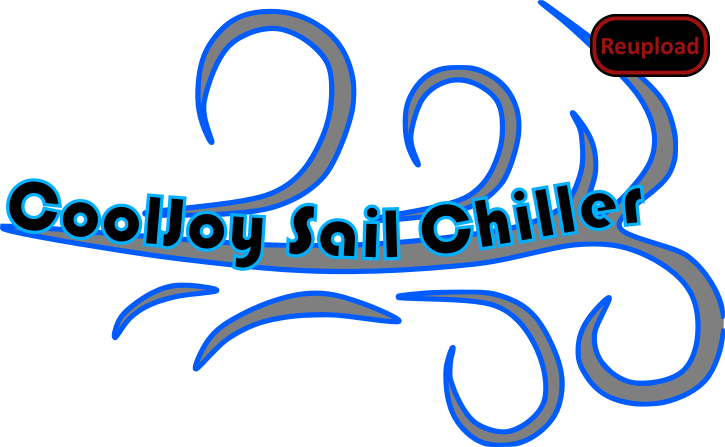
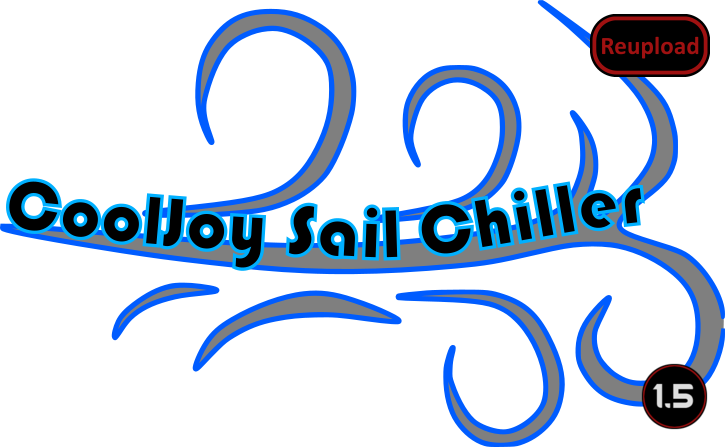
Mod updated for 1.5 and passed autotests

Changed region(s): [[0.88, 0.8143, 1.0, 0.9597]]

diff --git a/README.md b/README.md
@@ -29,11 +29,13 @@ The sail chiller is very potent, almost OP, but scientifically accurate.  It coo
 
 -  See if the the error persists if you just have this mod and its requirements active.
 -  If not, try adding your other mods until it happens again.
--  Post your error-log using https://steamcommunity.com/workshop/filedetails/?id=818773962]HugsLib and command Ctrl+F12
+-  Post your error-log using https://steamcommunity.com/workshop/filedetails/?id=818773962]HugsLib or the standalone https://steamcommunity.com/sharedfiles/filedetails/?id=2873415404]Uploader and command Ctrl+F12
 -  For best support, please use the Discord-channel for error-reporting.
 -  Do not report errors by making a discussion-thread, I get no notification of that.
 -  If you have the solution for a problem, please post it to the GitHub repository.
+-  Use https://github.com/RimSort/RimSort/releases/latest]RimSort to sort your mods
 
 
 
+https://steamcommunity.com/sharedfiles/filedetails/changelog/2380464653]![Image](https://img.shields.io/github/v/release/emipa606/CoolJoySailChiller?label=latest%20version&style=plastic&color=9f1111&labelColor=black)
 
